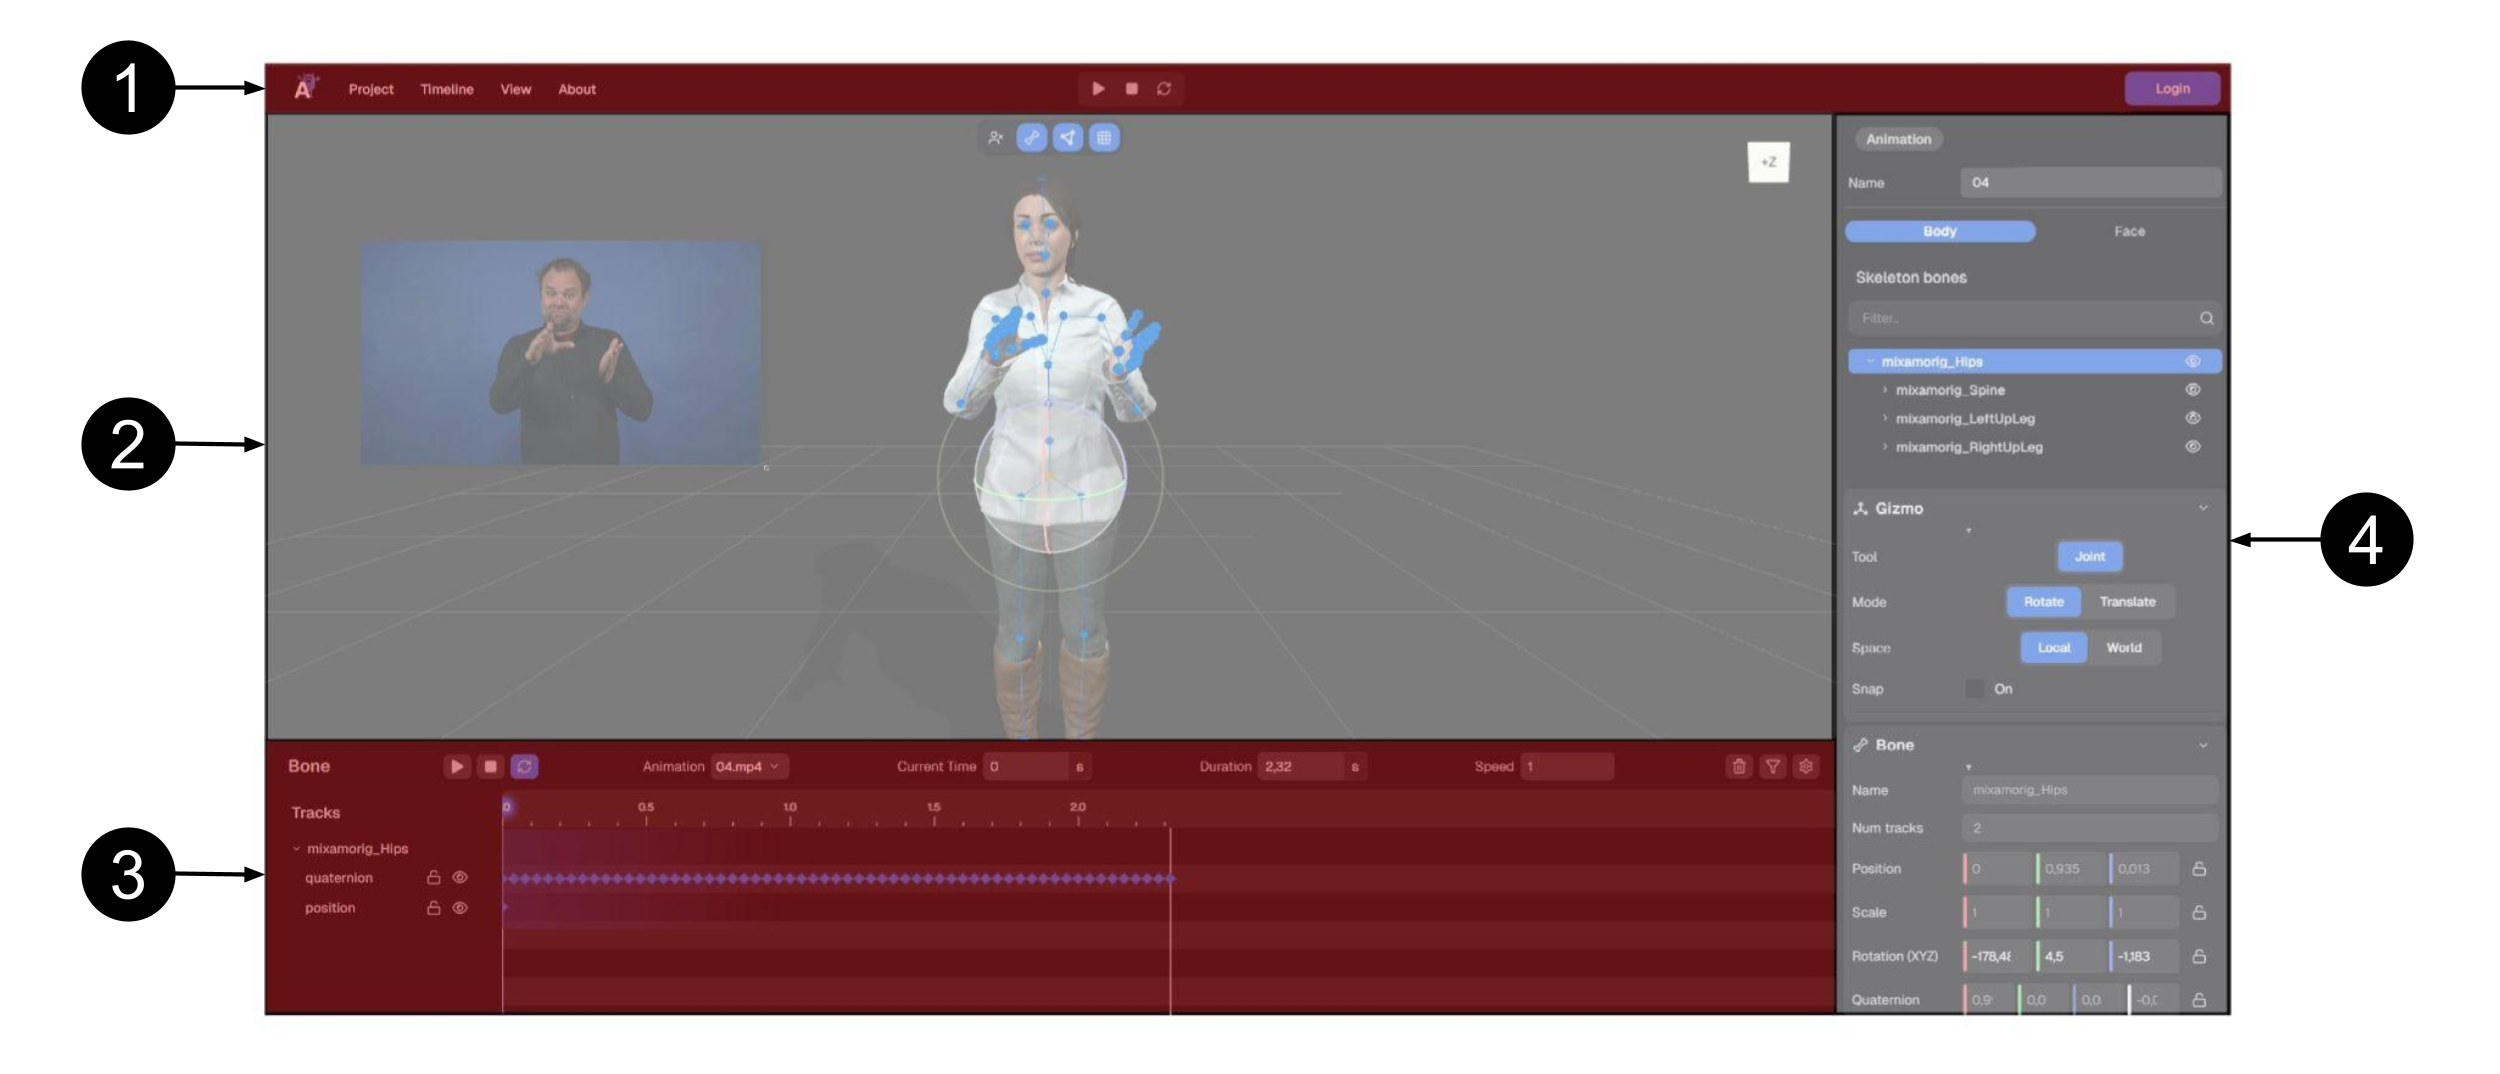
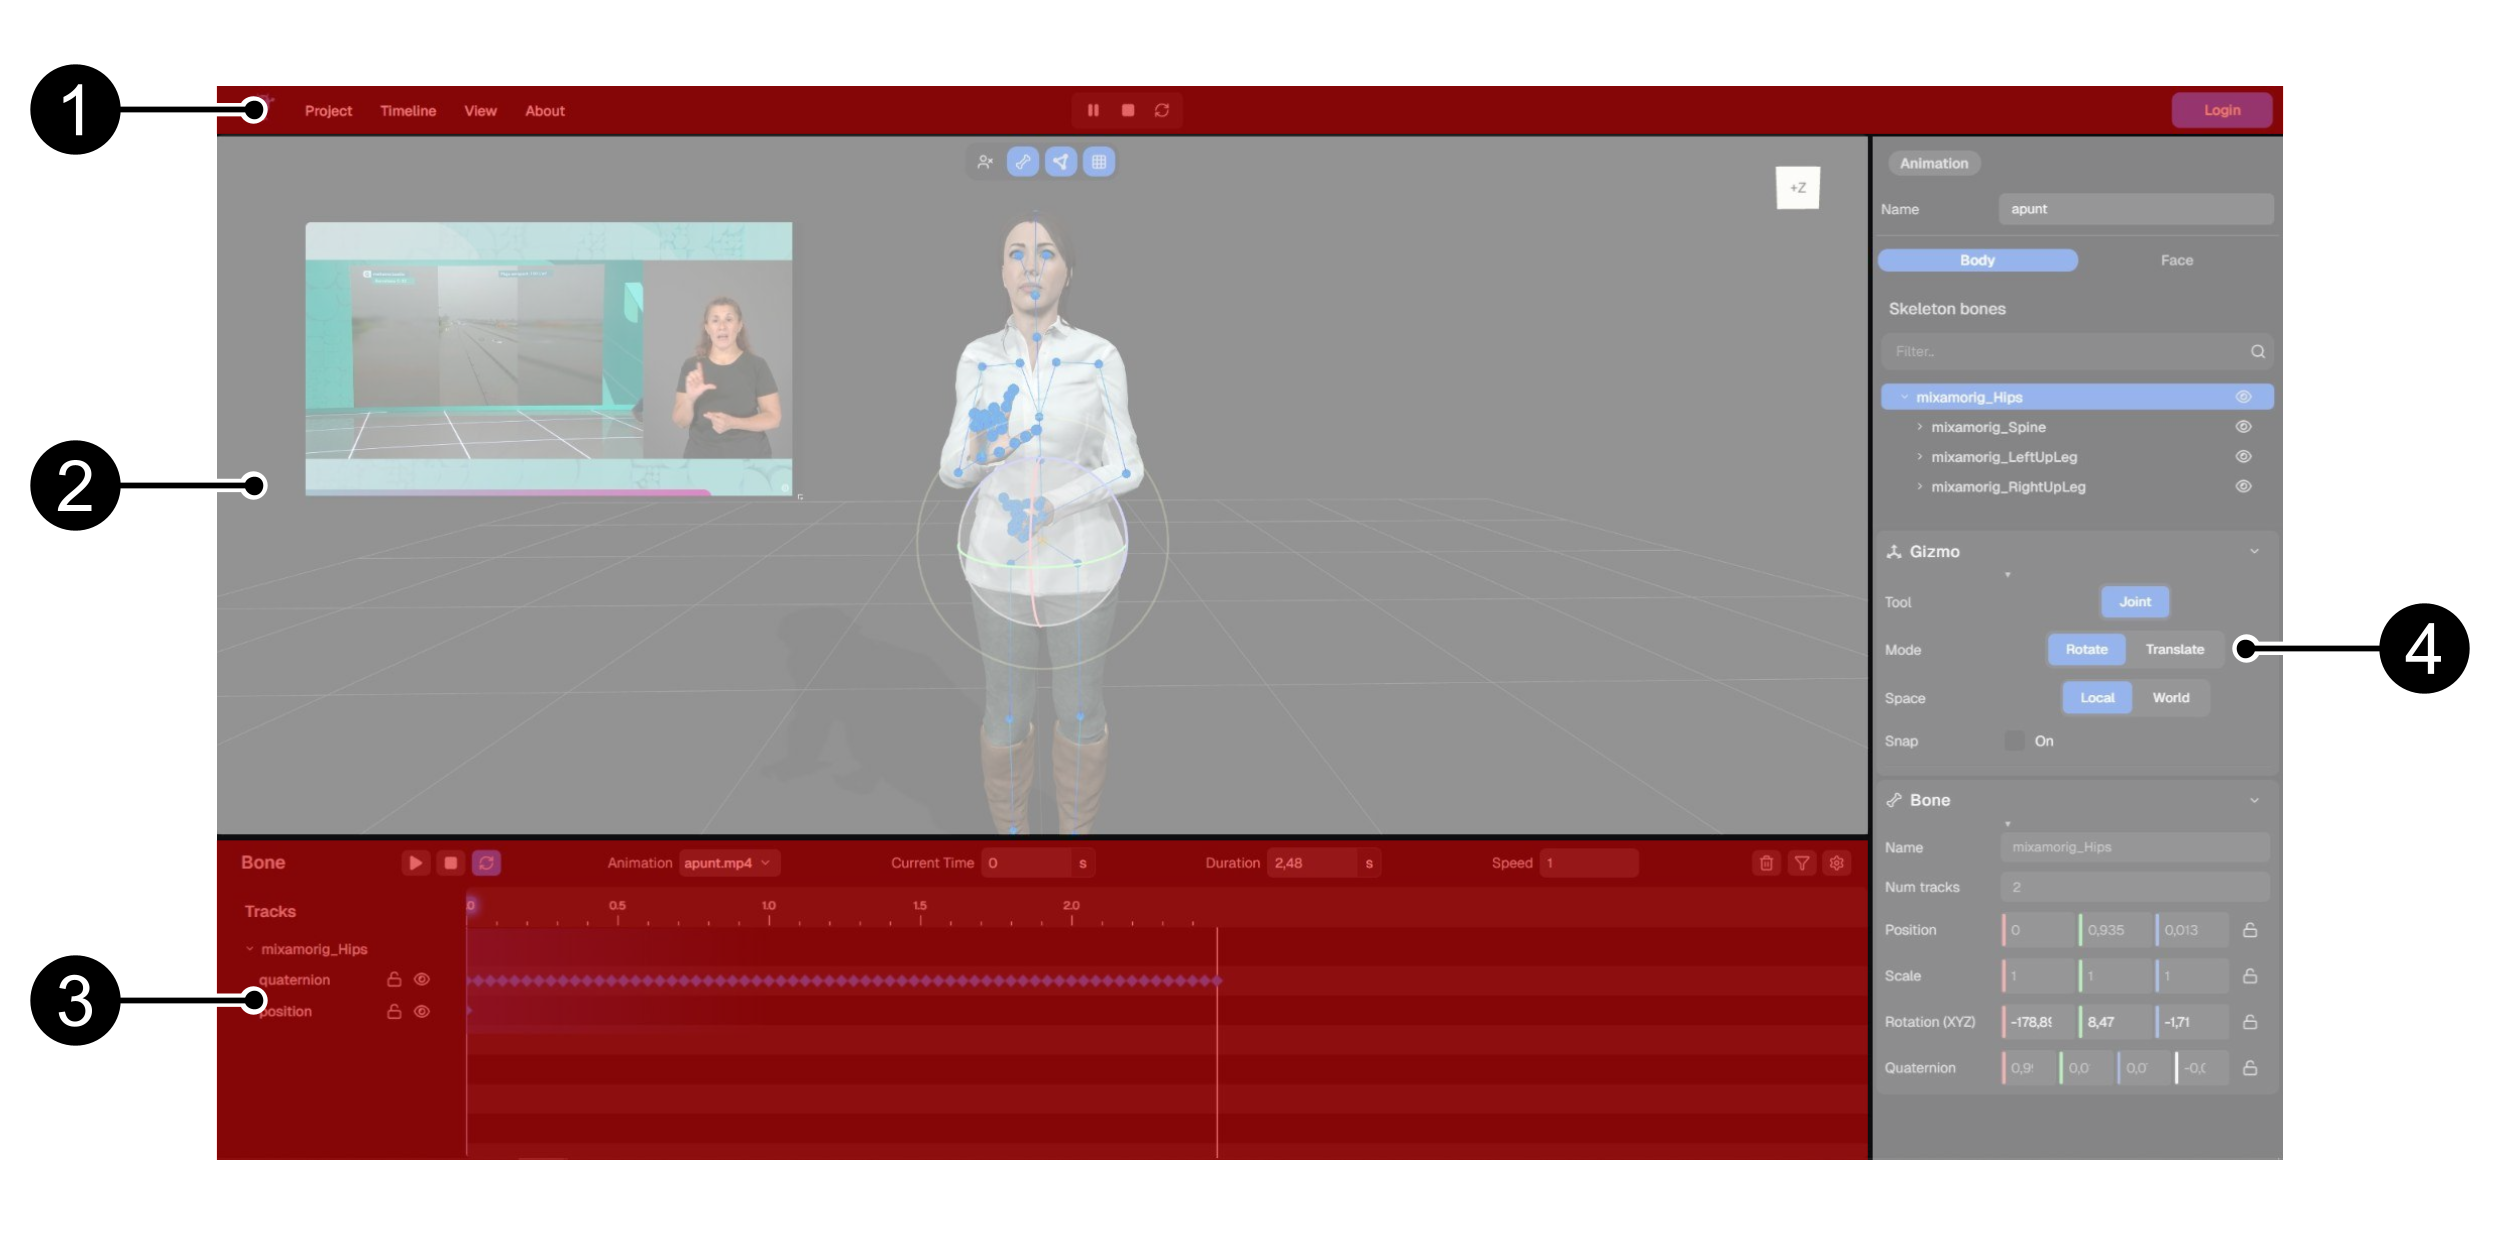
fix: update character encoding to UTF-8, update editing station image and add dropdown menu links

diff --git a/docs/index.html b/docs/index.html
@@ -1,7 +1,7 @@
 <!DOCTYPE html PUBLIC "-//W3C//DTD XHTML 1.0 Transitional//EN" "http://www.w3.org/TR/xhtml1/DTD/xhtml1-transitional.dtd">
 <html xmlns="http://www.w3.org/1999/xhtml" xml:lang="en" lang="en">
 <head>
-    <meta http-equiv="Content-Type" content="text/html; charset=iso-8859-1" />
+    <meta http-equiv="Content-Type" content="text/html; charset=utf-8" />
     <meta name="viewport" content="width=device-width,initial-scale=1.0">
     <title>Animics Docs</title>
     <link rel="stylesheet" href="https://cdn.skypack.dev/lexgui/build/lexgui.css">
@@ -142,15 +142,15 @@
             onFooterPressed: (e, element) => {
                 new LX.DropdownMenu(element, [
                     "Pages",
-                    { name: "Main", callback: () => { } },
-                    { name: "Animics", callback: () => { } },
-                    { name: "Performs", callback: () => { } },
+                    { name: "Main", callback: () => { window.open("https://animics.gti.upf.edu/") } },
+                    { name: "Animics", callback: () => { window.open("https://animics.gti.upf.edu/") } },
+                    { name: "Performs", callback: () => { window.open("https://performs.gti.upf.edu/") } },
                     null,
                     {
                         name: "Social Media", submenu: [
-                            { name: "Github", link: "https://github.com/upf-gti/", icon: "Github@solid" },
-                            { name: "Twitter", link: "https://x.com/gti_upf/", icon: "X-Twitter" },
-                            { name: "Discord", link: "https://discord.gg/9YGrGjnycj", icon: "Discord" }
+                            { name: "Github", icon: "Github@solid", callback: () => { window.open("https://github.com/upf-gti/") } },
+                            { name: "Twitter", icon: "X-Twitter",  callback: () => { window.open("https://x.com/gti_upf/") }  },
+                            { name: "Discord", icon: "Discord",  callback: () => { window.open("https://discord.gg/9YGrGjnycj") }  }
                         ]
                     }
                 ], { side: "right", align: "end" });
